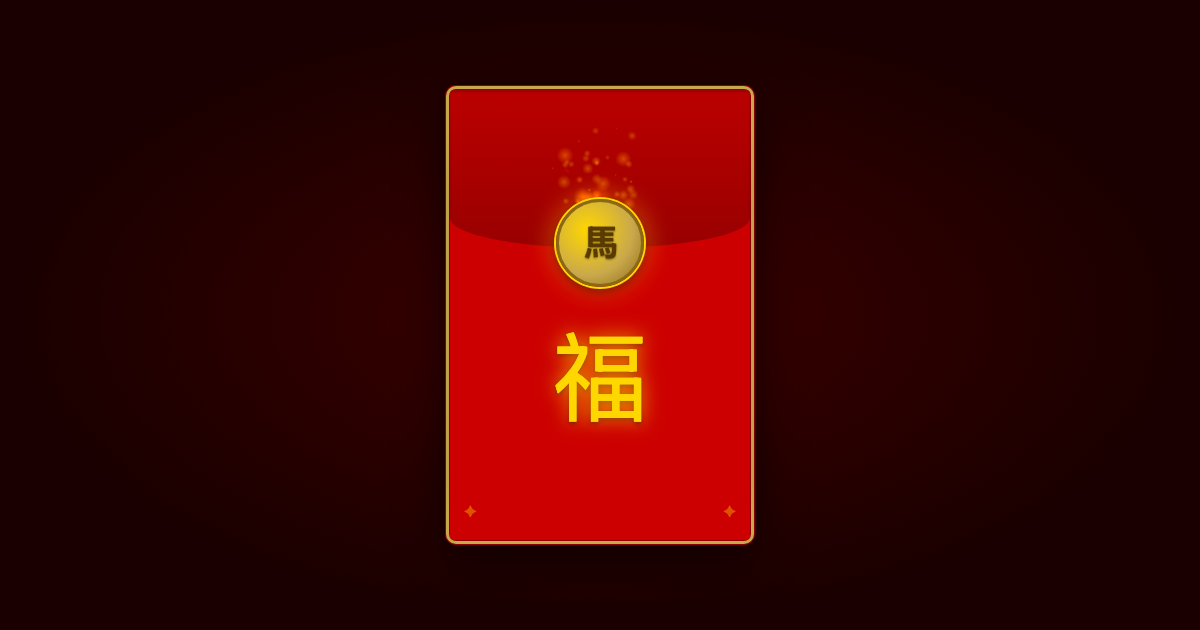
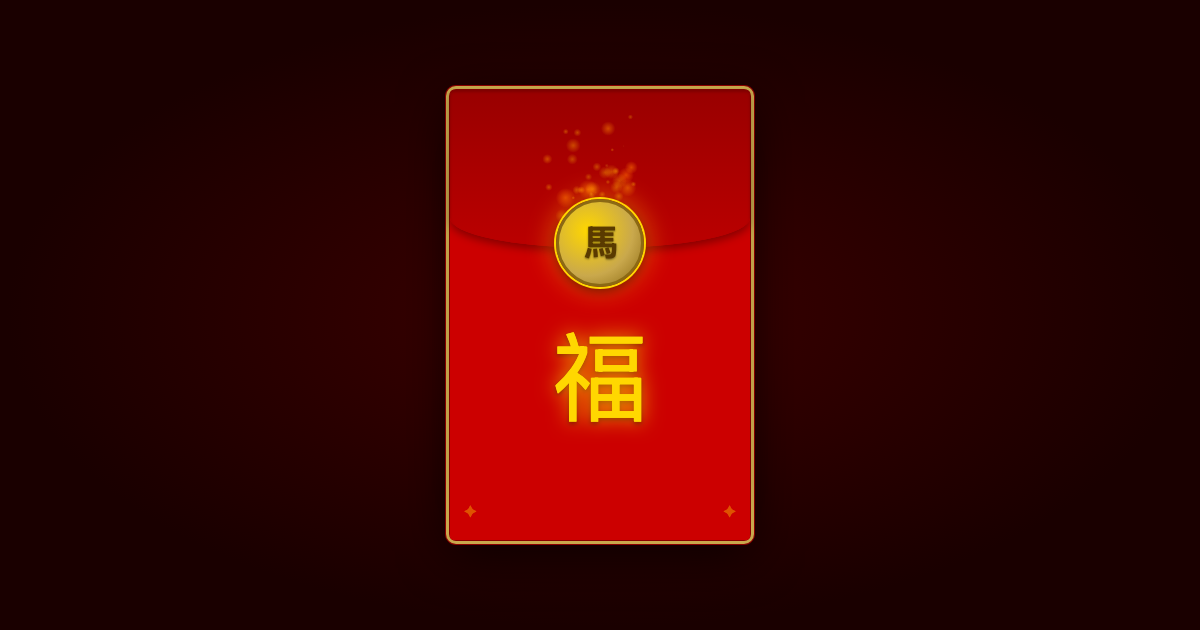
feat: add depth shadows to envelope layers
Flap shadow: reversed gradient (dark top → light bottom) with outer
box-shadow so the flap edge reads as a distinct layer above the front.

Concave mouth shadow: radial-gradient pseudo-element on the envelope
container simulates the front panel casting a shadow onto the paper
through the concave clip-path cutout. Simplify open-state z-index
logic — demote flap (4→1) instead of promoting paper and front,
so the shadow at z-3 is naturally revealed as the flap rotates away.

diff --git a/index.html b/index.html
@@ -109,13 +109,15 @@
     .envelope-flap {
       top: 0;
       height: 35%;
-      background: linear-gradient(180deg, #BB0000 0%, #990000 100%);
+      background: linear-gradient(180deg, #990000 0%, #BB0000 100%);
       /* Rounded arch bottom — traditional envelope flap shape */
       border-radius: 4px 4px 50% 50% / 4px 4px 30px 30px;
       z-index: 4;
       transform-origin: top center;
       transition: transform 2s cubic-bezier(0.4, 0, 0.2, 1);
-      box-shadow: inset 0 2px 3px rgba(0,0,0,0.18);
+      box-shadow:
+        inset 0 2px 3px rgba(0,0,0,0.18),
+        0 4px 8px rgba(0,0,0,0.35);
     }
 
     /* ── Step 6: 福 character on the front body ── */
@@ -230,6 +232,21 @@
       pointer-events: none;
       -webkit-animation: none;
               animation: none;
+    }
+
+    /* Shadow from front panel's concave edge onto paper.
+       z-3 matches front — paints before it in DOM order, visible through concave cutout.
+       Flap (z-4 → z-1) naturally reveals this as it rotates away. */
+    .envelope.is-open::before {
+      content: '';
+      position: absolute;
+      top: 26%;
+      left: 0;
+      width: 100%;
+      height: 12%;
+      background: radial-gradient(ellipse 80% 100% at 50% 100%, rgba(0,0,0,0.6) 0%, transparent 80%);
+      z-index: 3;
+      pointer-events: none;
     }
 
     /* ── Paper Card ───────────────────────────────────────────────── */
@@ -501,10 +518,9 @@
         canvas.style.transition = 'opacity 0.8s ease';
         canvas.style.opacity = '0';
       }, 800);
-      // At 1s (flap halfway through rotation), promote paper above flap so card can slide over it
+      // At 1s (flap halfway through rotation), drop flap below paper so card can slide over it
       setTimeout(() => {
-        document.querySelector('.envelope-paper').style.zIndex = '5';
-        document.querySelector('.envelope-front').style.zIndex = '6';
+        document.querySelector('.envelope-flap').style.zIndex = '1';
       }, 1000);
     }
 
